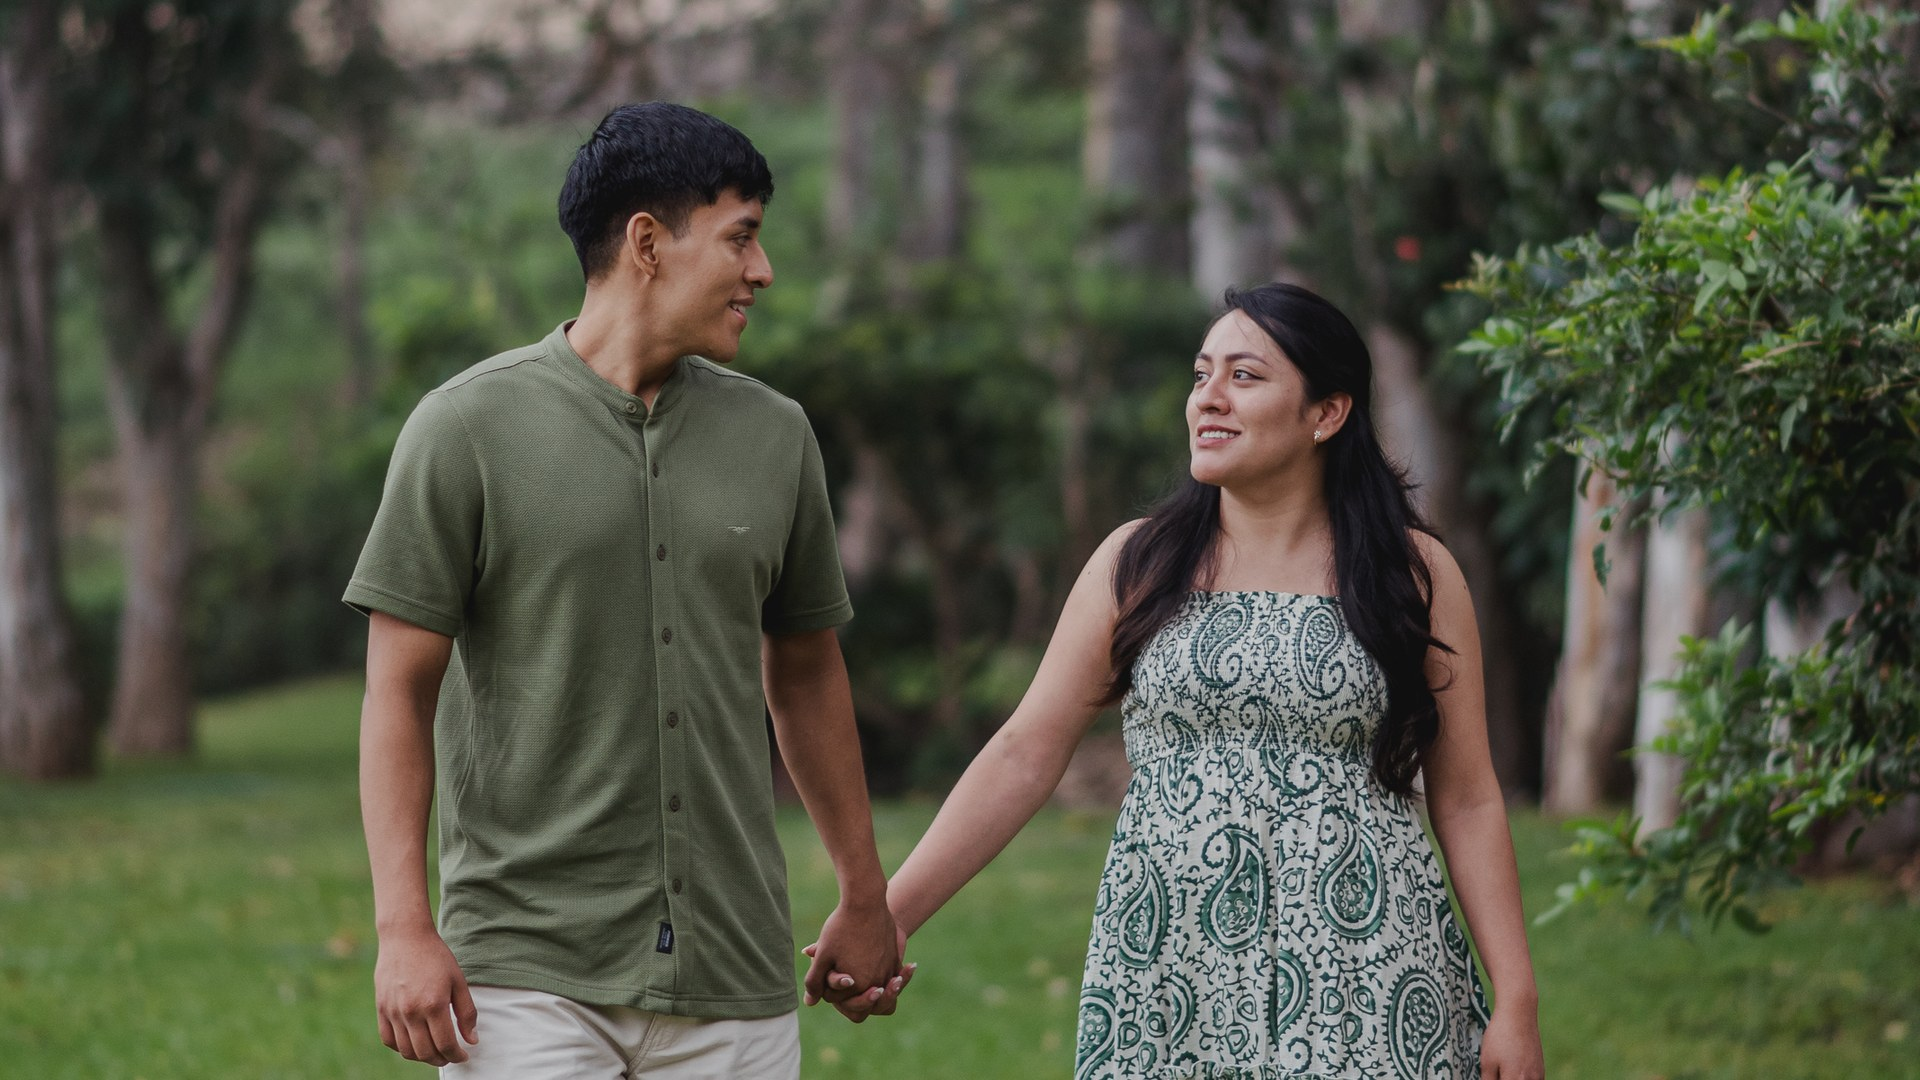
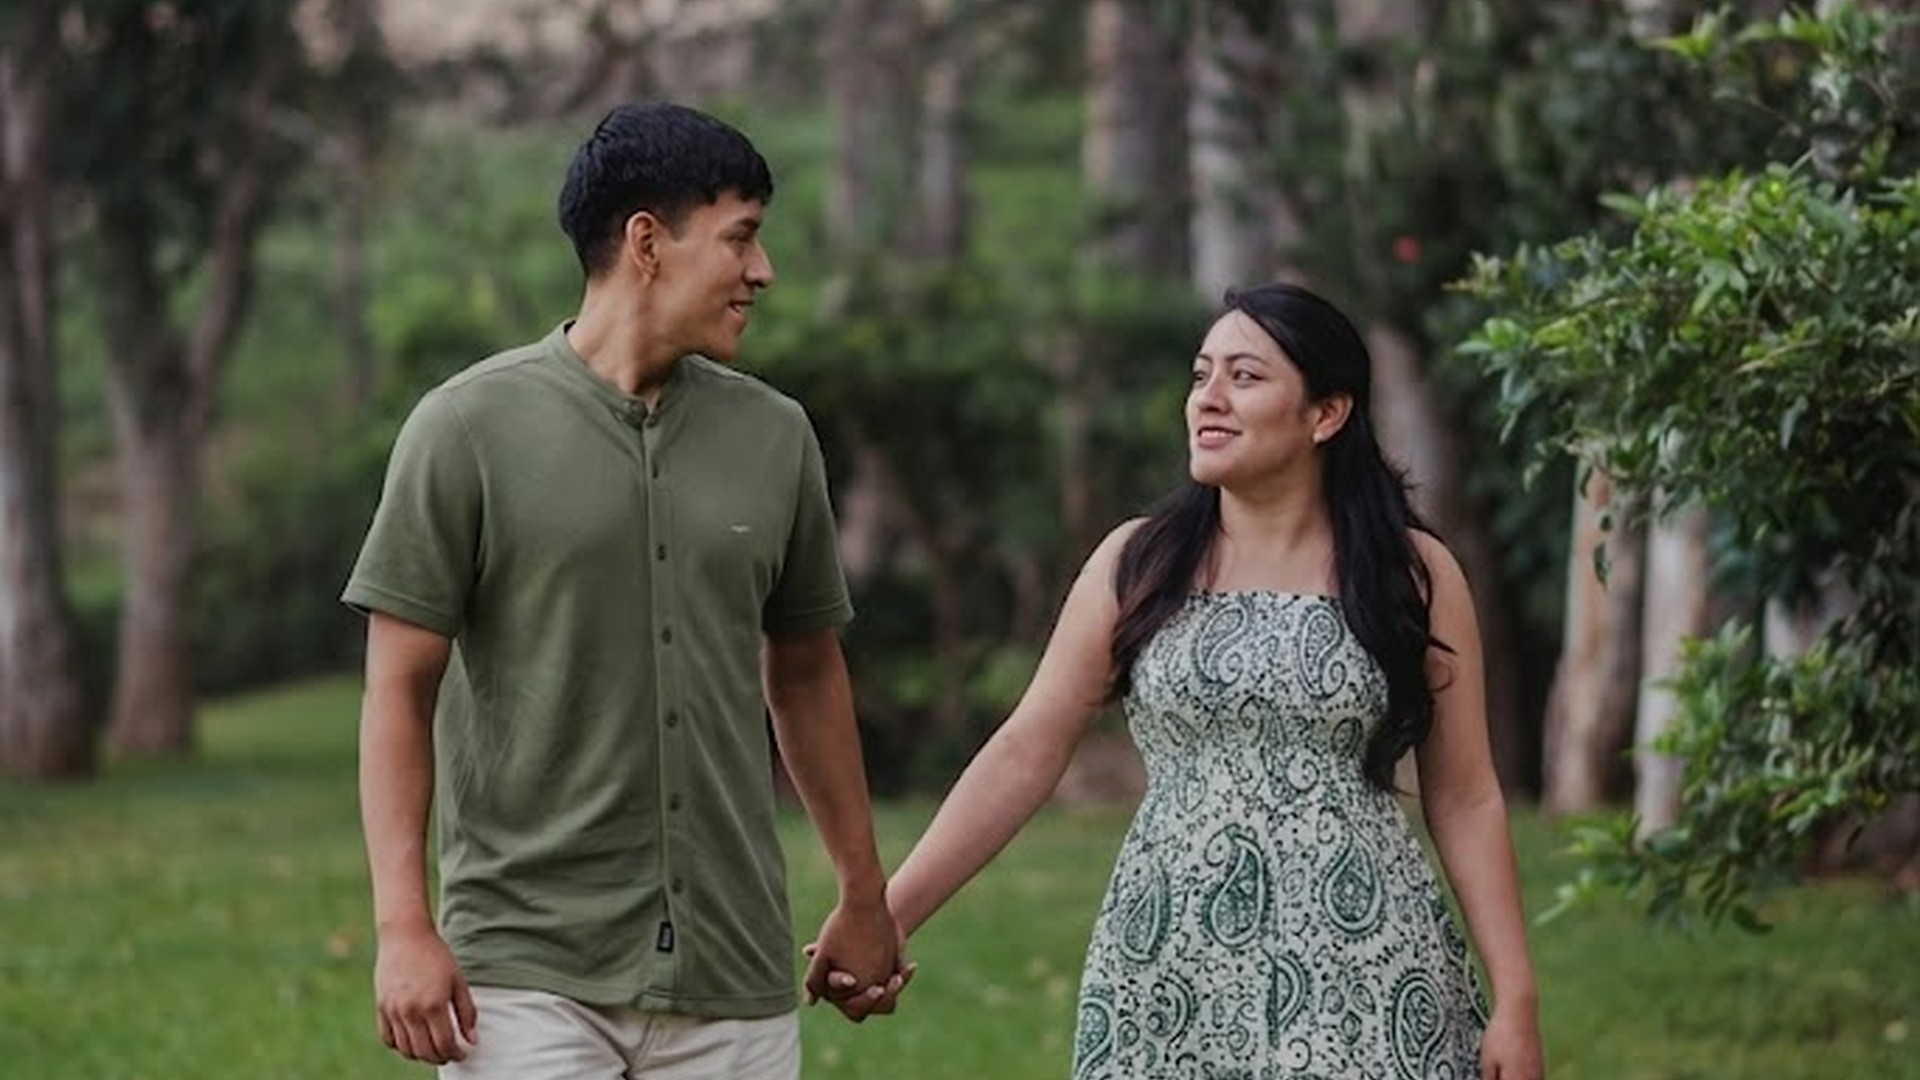
Modificando imagen 23 resize

diff --git a/resize_images.py b/resize_images.py
@@ -19,16 +19,16 @@ def create_responsive_images(source_path, base_dir):
     for device, (width, height) in sizes.items():
         out_dir = os.path.join(base_dir, device)
         os.makedirs(out_dir, exist_ok=True)
-        out_path = os.path.join(out_dir, 'foto-37.jpg')
+        out_path = os.path.join(out_dir, 'foto-23.jpg')
         
         # Resize and crop to fill the target size
-        resized_img = ImageOps.fit(img, (width, height), method=Image.LANCZOS, centering=(0.5, 0.3))
+        resized_img = ImageOps.fit(img, (width, height), method=Image.LANCZOS, centering=(0.5, 0.5))
         
         # Save with high quality
         resized_img.save(out_path, 'JPEG', quality=90)
         print(f"Created {device} version at {out_path}")
 
 if __name__ == "__main__":
-    source = 'assets/images/foto-37.jpg'
+    source = 'assets/images/foto-23.jpg'
     base = 'assets/images'
     create_responsive_images(source, base)
